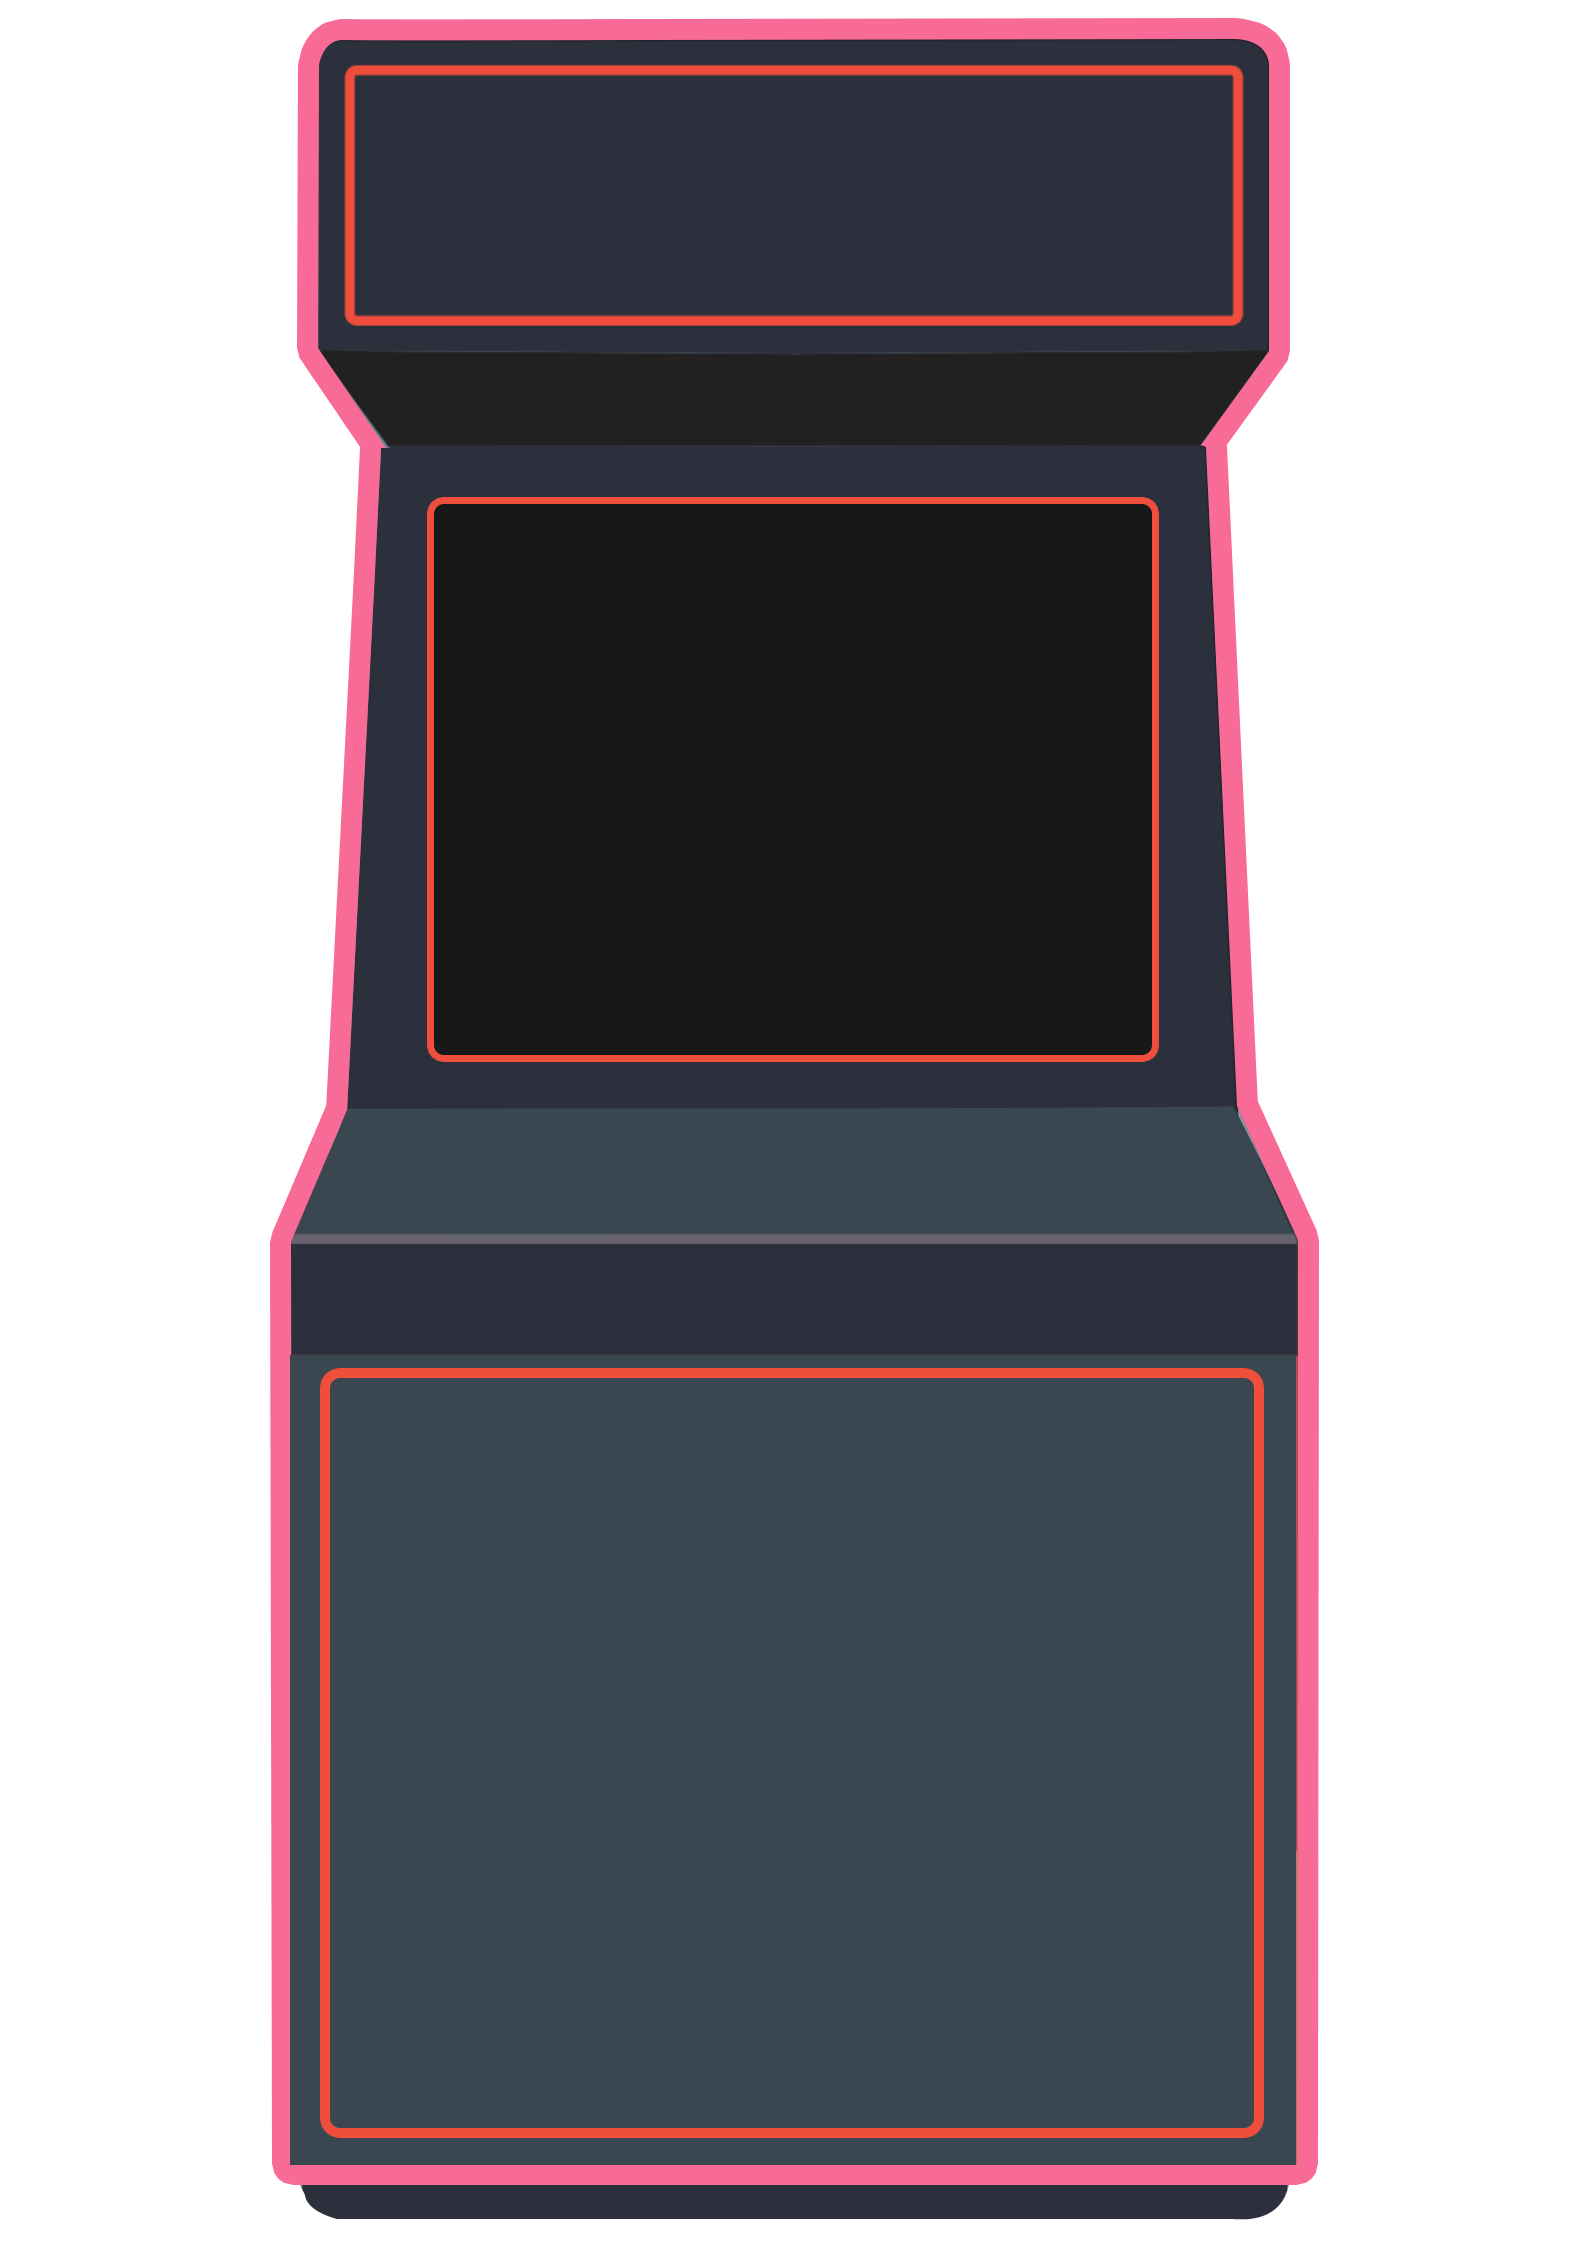
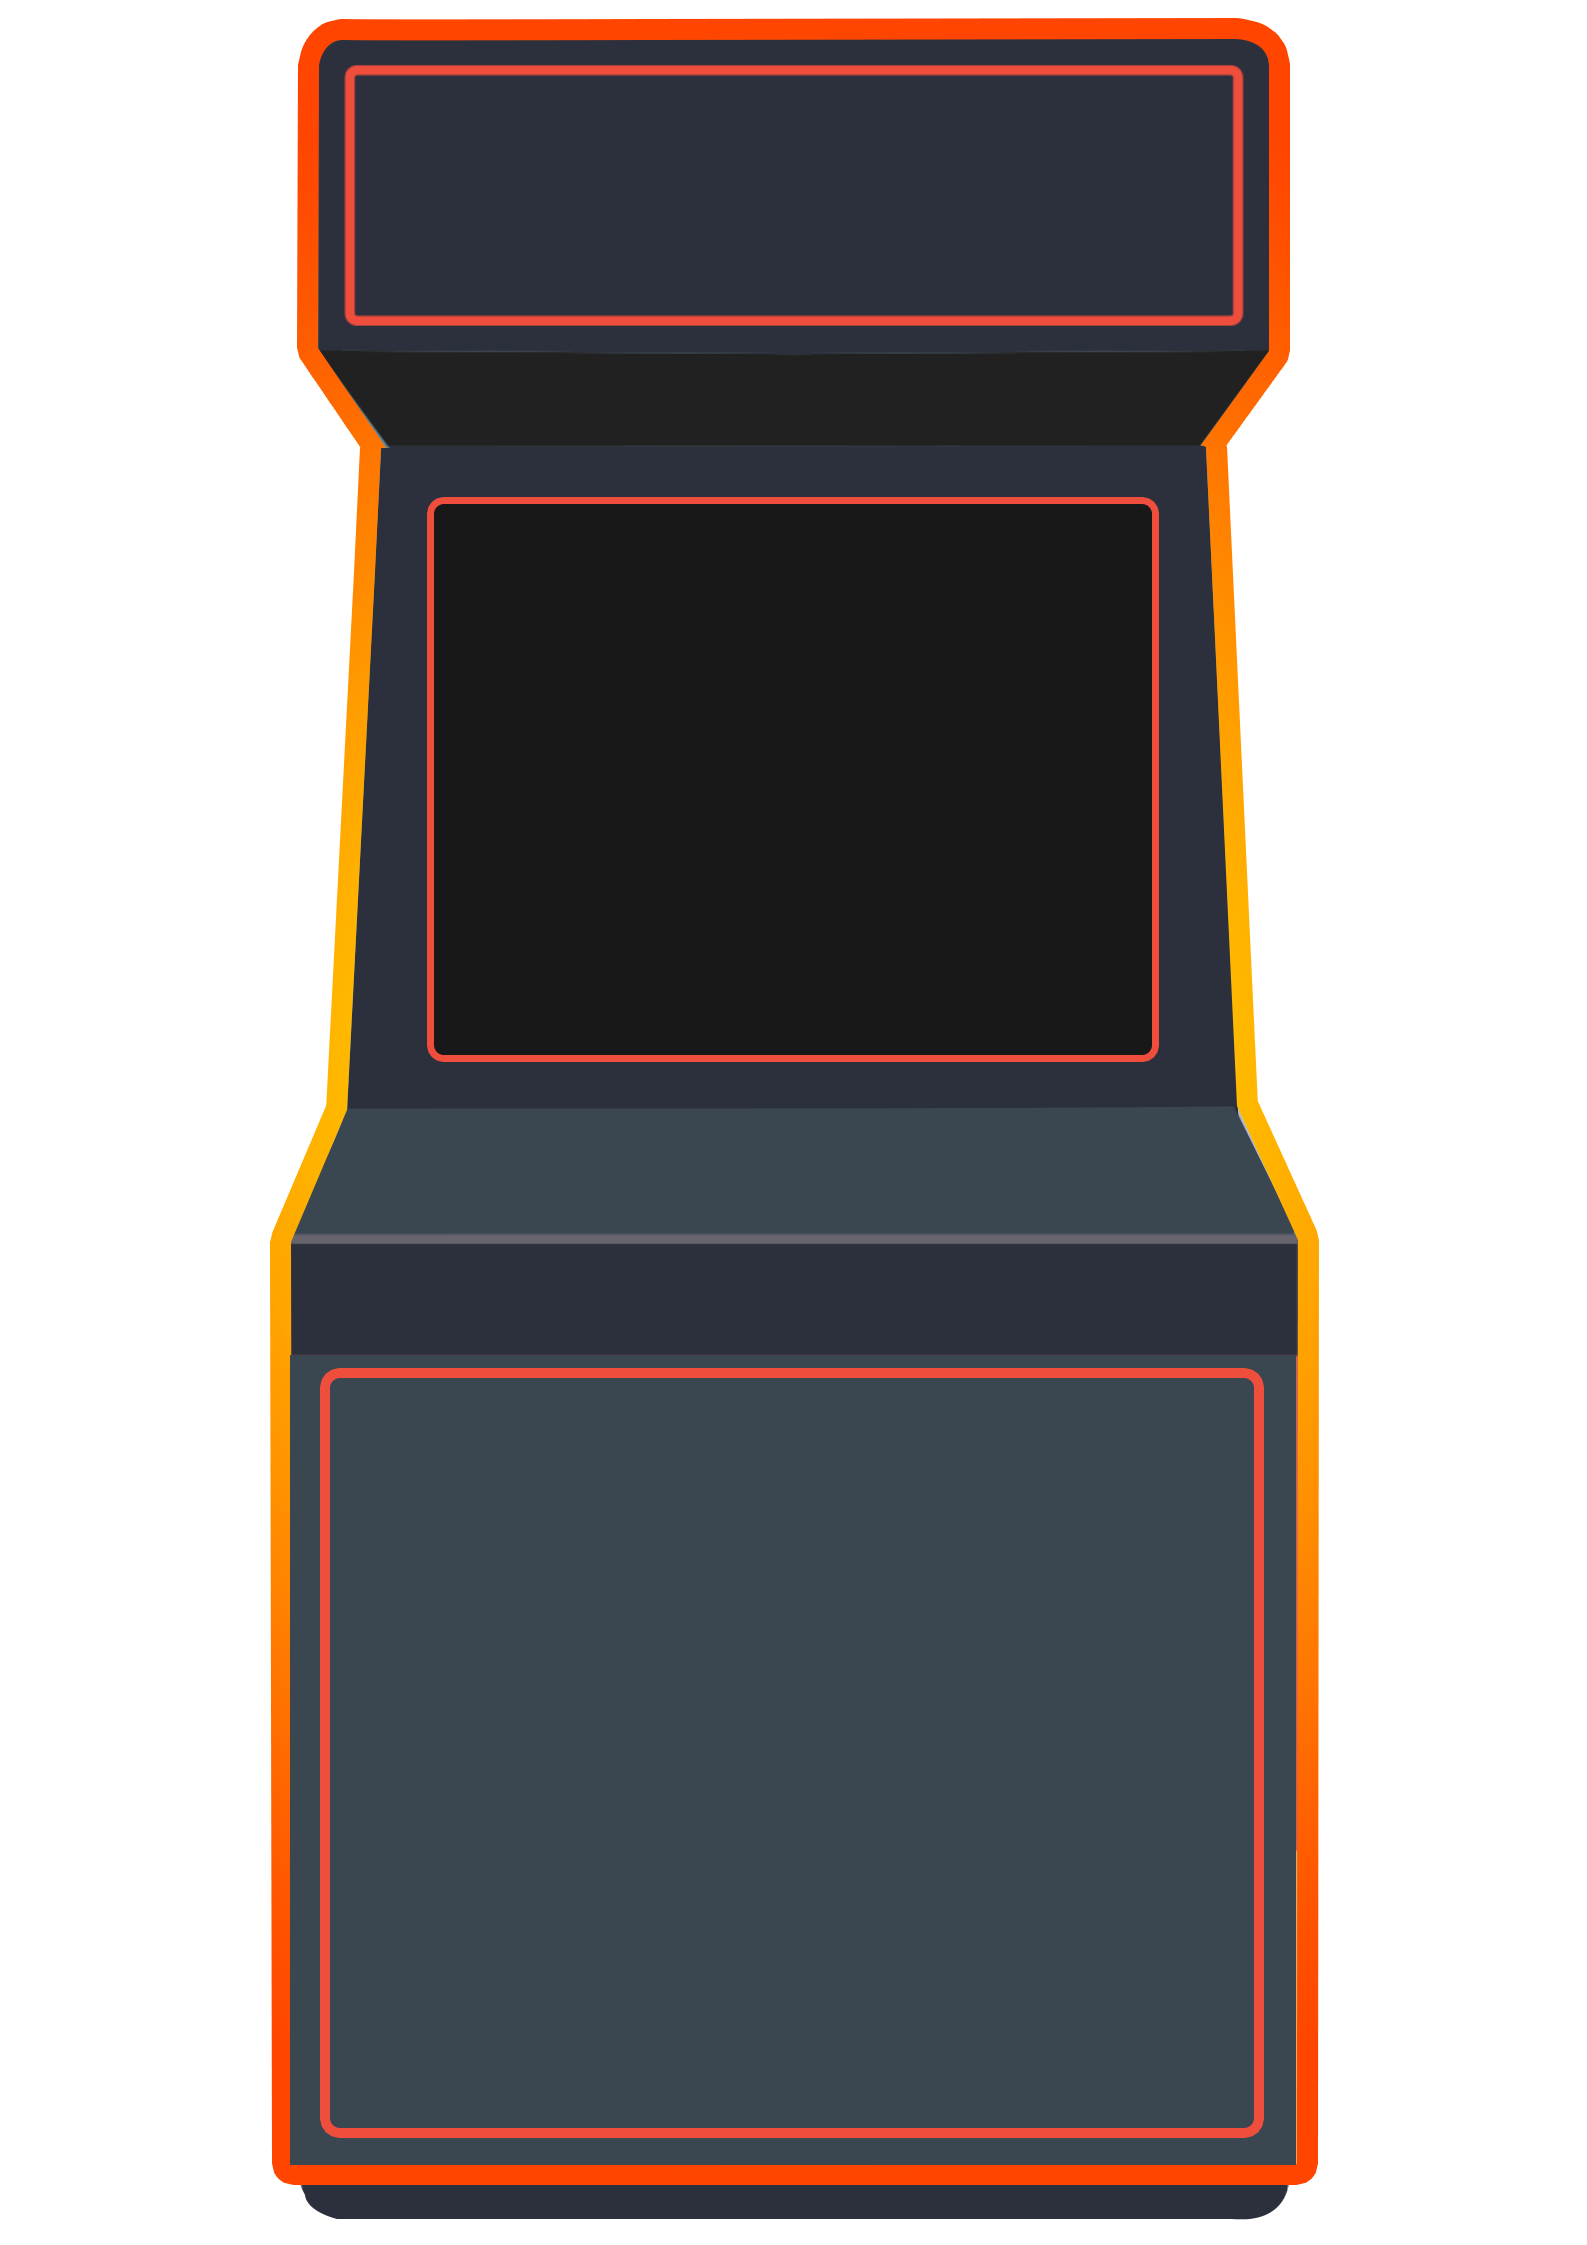
changed arcade color, button color, and fixed display issues

Changed region(s): [[0.1544, 0.0, 0.8336, 0.9978]]

diff --git a/script.js b/script.js
@@ -10,27 +10,39 @@ function onStartButtonClick() {
     } else {
         startConversion(); // Start conversion for subsequent clicks
     }
-    handleButtonPressEffect(startButton); // Always handle the button press effect
+    ButtonPressEffect(startButton); // Always handle the button press effect
 }
 startButton.addEventListener('click', onStartButtonClick);
 
 // Define the stepConversion event listener separately
 function onNextButtonClick() {
     stepConversion();
-    handleButtonPressEffect(nextButton);
+    ButtonPressEffect(nextButton);
 }
 
 // Attach the stepConversion listener initially
 nextButton.addEventListener('click', onNextButtonClick);
 
-function handleButtonPressEffect(buttonElement) {
-    // Change button image to active state
-    buttonElement.src = 'assets/images/active_button.png';
+// press effect for start button
+function ButtonPressEffect(buttonElement) {
+    if (buttonElement == startButton) {
+        // Change button image to active state
+        buttonElement.src = 'assets/images/pressed-start-button.png';
 
-    // Revert button image back to original after 200ms
-    setTimeout(() => {
-        buttonElement.src = 'assets/images/button.png';
-    }, 200);
+        // Revert button image back to original after 200ms
+        setTimeout(() => {
+            buttonElement.src = 'assets/images/start-button.png';
+        }, 200);
+    }
+
+    if (buttonElement == nextButton) {
+        buttonElement.src = 'assets/images/pressed-next-button.png';
+
+        setTimeout(() => {
+            buttonElement.src = 'assets/images/next-button.png';
+        }, 200);
+    }
+    
 }
 
 // Display Main
@@ -141,16 +153,14 @@ function stepConversion() {
 }
 
 // Postfix Evaluation
-
 function onStartEvaluation() {
     startEvaluation();
-    handleButtonPressEffect(startButton); 
+    ButtonPressEffect(startButton); 
 }
 
 function onStepEvaluation() {
     stepEvaluation();
-    handleButtonPressEffect(nextButton);
-
+    ButtonPressEffect(nextButton);
 }
 
 function transitionToPostfixEvaluation() {
@@ -182,8 +192,8 @@ function startEvaluation() {
     resultStack = [];
     document.getElementById('evaluationOutput').textContent = '';
     document.getElementById('evaluationStackOutput').textContent = 'Stack: []';
-    document.getElementById('operationsOutput').textContent = 'Operations to be done: []';
-    document.getElementById('resultStackOutput').textContent = 'Result Stack: []';
+    document.getElementById('operationsOutput').textContent = 'Operations: []';
+    document.getElementById('resultStackOutput').textContent = 'Result: []';
     document.getElementById('currentOutput').textContent = '';
     document.getElementById('stepButton').disabled = false;
   }
@@ -244,14 +254,14 @@ function startEvaluation() {
 
         let operation = `${operand1} ${char} ${operand2}`;
         operations.push(operation);
-        document.getElementById('operationsOutput').textContent = `Operations to be done: [${operations.join(', ')}]`;
+        document.getElementById('operationsOutput').textContent = `Operations: [${operations.join(', ')}]`;
 
         evaluationIndex++;  // Increment the index after processing operator
     }
 
     // Update display elements
     document.getElementById('evaluationStackOutput').textContent = `Stack: [${evaluationStack.join(', ')}]`;
-    document.getElementById('resultStackOutput').textContent = `Result Stack: [${resultStack.join(', ')}]`;
+    document.getElementById('resultStackOutput').textContent = `Result: [${resultStack.join(', ')}]`;
 
     // Clean up operations and results after display
     if (operations.length > 0) {

diff --git a/style.css b/style.css
@@ -21,7 +21,7 @@ body::before {
     position: absolute;
     width: 100%;
     height: 100%;
-    background-color: rgba(0, 0, 0, 0.5); 
+    background-color: rgba(0, 0, 0, 0.7); 
     z-index: -1;
 }
 
@@ -39,17 +39,26 @@ body::before {
     
 }
 
-#title {
+#title, #shadow {
     font-family: "Pixelify Sans", sans-serif;
     position: absolute;
     top: 6%; 
     left: 50%;
     transform: translateX(-50%);
     font-size: 5em;
-    color: #FF7F50;
+    color: #FF4500;
     background: linear-gradient(0deg, #FF4500, #FFD700);
     -webkit-background-clip: text;
     -webkit-text-fill-color: transparent;
+}
+
+#shadow {
+    /* Glowing effect behind the text */
+    text-shadow: 
+        0 0 10px #FF4500,    /* Inner glow */
+        0 0 20px #FFD700,    /* Middle glow */
+        0 0 30px #FF4500;   /* Outer glow */
+    animation: glow 1.5s ease-in-out infinite alternate;
 }
 
 .main-content {
@@ -63,13 +72,15 @@ body::before {
     height: 25%;
     width: 45.4%;
     padding: 20px;
-    /* background-color: pink;  */
     display: flex;
     flex-direction: column; /* Stack h1 and .infix vertically */
 }
 
 .main-content h1 {
     font-size: 50px;
+    background: linear-gradient(0deg, #FF4500, #FFD700);
+    -webkit-background-clip: text;
+    -webkit-text-fill-color: transparent;
 }
 
 #start {
@@ -80,7 +91,7 @@ body::before {
     animation: pulse 1s infinite;
 }
 
-.to-postfix {
+.to-postfix, .postfix-evaluation {
     flex: 1;
     display: flex;
     flex-direction: column;
@@ -94,11 +105,11 @@ body::before {
 
 .infix, .postfix {
     flex: 1;
+    width: 90%;
     display: flex;
     flex-direction: column;
     align-items: center;
     padding: 20px 10px 10px;
-    /* background-color: skyblue; */
 }
 
 .main-content label {
@@ -106,7 +117,7 @@ body::before {
 }
 
 #infixInput {
-    font-family: "Pixelify Sans", sans-serif; /* Use your arcade-style font */
+    font-family: "Pixelify Sans", sans-serif; 
     font-size: 34px;
     color: #FFFFFF; 
     background-color: transparent; 
@@ -123,7 +134,12 @@ body::before {
     background-color: transparent; /* Ensures the background stays transparent */
 }
 
-.outputs {
+#postfix-final {
+    font-size: 34px;
+    color: #FFD700;
+}
+
+.outputs{
     width: 100%;
     display: flex;
     flex-direction: column;
@@ -135,6 +151,7 @@ body::before {
 
 .finalOutput {
     font-size: 36px;
+    animation: pulse 1.5s infinite;
 }
 
 .controls {
@@ -158,6 +175,22 @@ body::before {
     height: auto;
 }
 
+@keyframes glow {
+    from {
+        text-shadow: 
+            0 0 10px #FF4500, 
+            0 0 20px #FFD700, 
+            0 0 30px #FF4500; 
+    }
+    to {
+        text-shadow: 
+            0 0 20px #FF4500, 
+            0 0 30px #FFD700, 
+            0 0 40px #FF4500; 
+    }
+}
+
+/* animation for text inside the arcade machine's screen */
 @keyframes pulse {
     0% {
         opacity: 1; /* Fully visible */

diff --git a/home.html b/home.html
@@ -15,6 +15,7 @@
         <img src="assets/images/arcade_machine.png" alt="Arcade Machine" id="arcade-machine">
 
         <!-- Title of the Arcade Machine -->
+        <h1 id="shadow">RPN SIMULATOR</h1>
         <h1 id="title">RPN SIMULATOR</h1>
 
         <!-- Main Content -->
@@ -35,22 +36,20 @@
                         <div class="outputUI" id="outputDisplay">To be evaluated: </div>
                     </div>
 
-                    <!-- output ito, nilagay ko muna na finalOutput -->
                     <div class="finalOutput" id="postfixOutput"></div> 
                 </div>
             </div>
 
             <!-- Postfix Evaluation -->
             <div class="postfix-evaluation hidden">
-                <h1>Postfix Evaluator</h1>
+                <h1>POSTFIX EVALUATOR</h1>
                 <div class="postfix">
-                    <label>Postfix to be Evaluated: </label>
-                    <p id="postfix-final">Sample Expression</p>
-
+                    <label>To be Evaluated: </label>
+                    <div id="postfix-final"></div>
                     <div class="outputs">
                         <div class="stack-output" id="evaluationStackOutput">Stack: []</div>
-                        <div class="operations-output" id="operationsOutput">Operations to be done: []</div>
-                        <div class="result-stack-output" id="resultStackOutput">Result Stack: []</div>
+                        <div class="result-stack-output" id="resultStackOutput">Result: []</div>
+                        <div class="operations-output" id="operationsOutput">Operations: []</div>
                         <div class="current-output" id="currentOutput"></div>
                     </div>
 
@@ -62,8 +61,8 @@
         <!-- Arcade Machine Controls -->
         <div class="controls">
             <div class="left-items">
-                <img src="assets/images/button.png" alt="button1" class="button" id="startButton"> 
-                <img src="assets/images/button.png" alt="button2" class="button" id="stepButton">
+                <img src="assets/images/start-button.png" alt="Start Button" class="button" id="startButton"> 
+                <img src="assets/images/next-button.png" alt="Next Button" class="button" id="stepButton">
             </div>
             <div class="right-items"><img src="assets/images/coin_slot.png" alt="coin slot" id="coin_slot"></div>
         </div>
